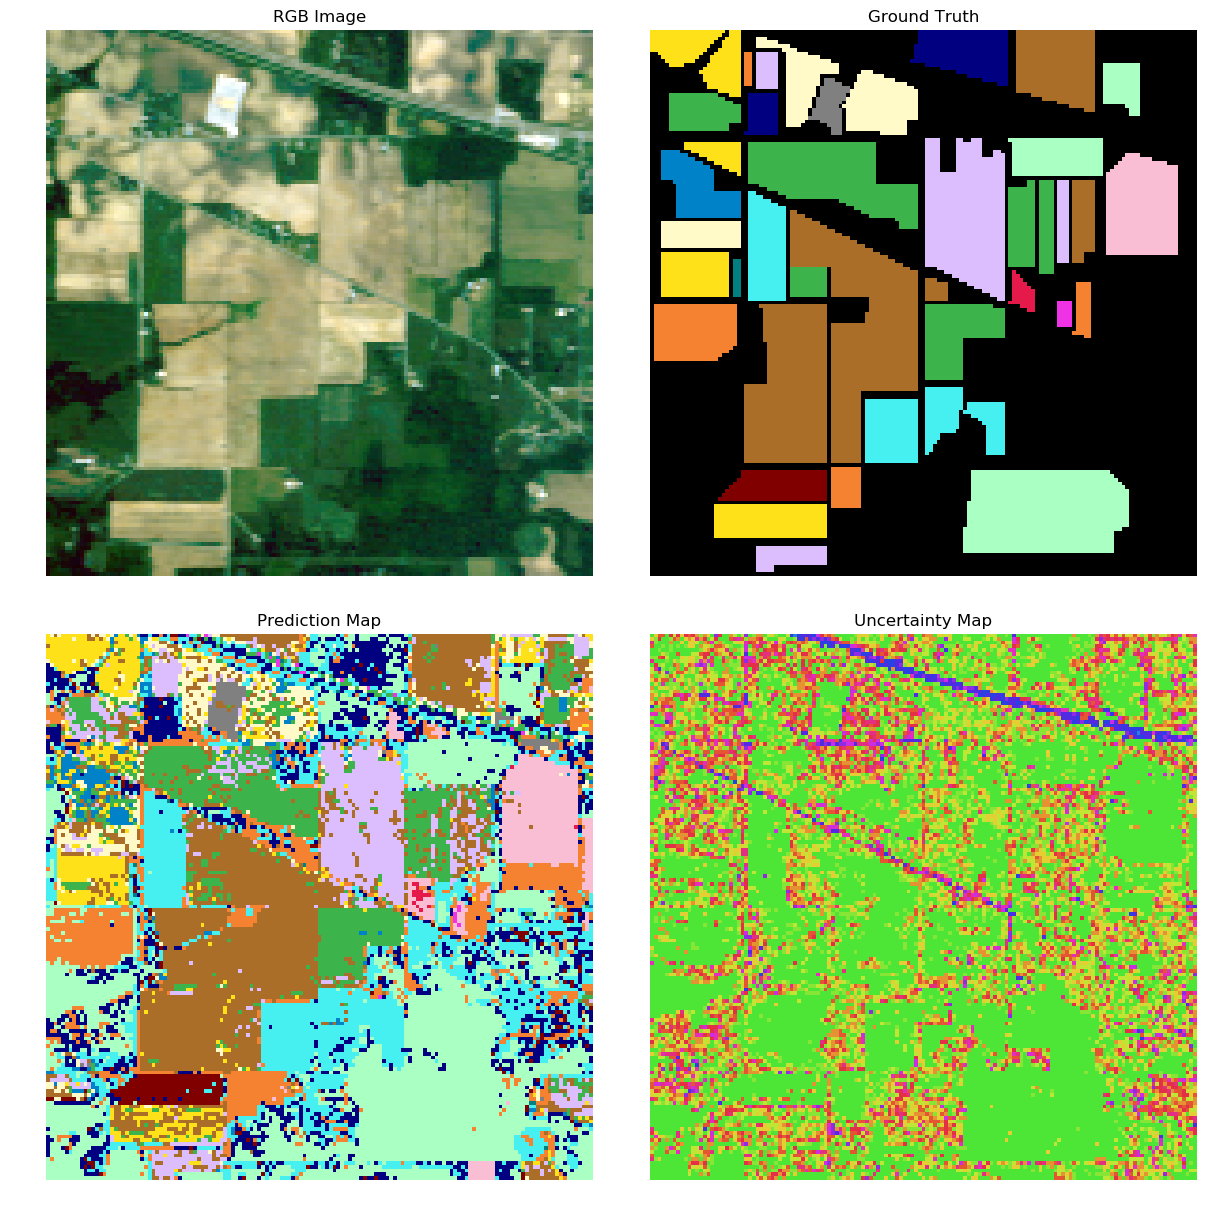
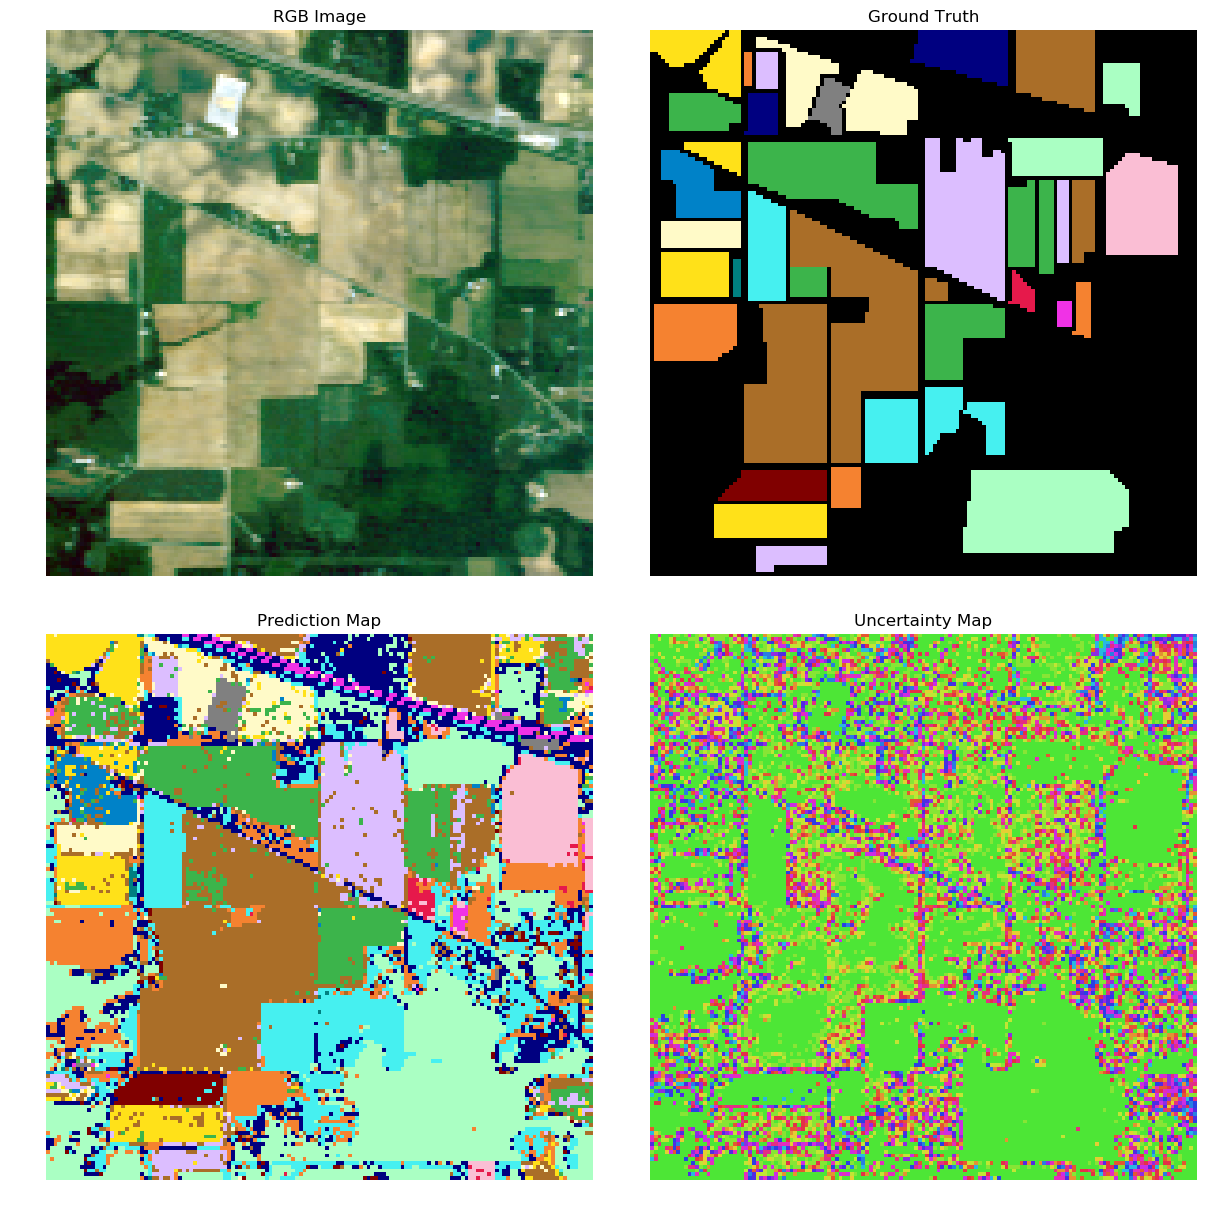
Mapas full con max_H=1.5 slots=15

Changed region(s): [[0.5203, 0.5181, 1.0, 0.9753], [0.0306, 0.5181, 0.4897, 0.9753]]

diff --git a/FPGA_accelerator_for_GBDT/high_performance_processor_python_code_and_data/generate_maps.py b/FPGA_accelerator_for_GBDT/high_performance_processor_python_code_and_data/generate_maps.py
@@ -137,7 +137,7 @@ MAP_GRADIENTS = [
 # ]
 
 def plot_maps(output_dir, name, shape, num_classes, wl, img, y, pred_map,
-              H_map, colours=MAP_COLOURS, gradients=MAP_GRADIENTS, max_H=0, slots=15):
+              H_map, colours=MAP_COLOURS, gradients=MAP_GRADIENTS, max_H=1.5, slots=15):
     """Generates and saves the `uncertainty map` plot of a dataset
     
     This plot shows an RGB representation of the hyperspectral image,
@@ -177,7 +177,7 @@ def plot_maps(output_dir, name, shape, num_classes, wl, img, y, pred_map,
     slots : int, optional (default: 15)
         Number of groups to divide uncertainty map values. If set to 0,
         `slots` will be set to `max_H * 10`.
-    max_H : float, optional (default: 0)
+    max_H : float, optional (default: 1.5)
         The max value of the range of uncertainty for the uncertainty
         map. The `0` value will use the logarithm of `num_classes` as
         it is the theoretical maximum value of the uncertainty.
@@ -266,7 +266,7 @@ def plot_maps(output_dir, name, shape, num_classes, wl, img, y, pred_map,
 # MAIN FUNCTION
 # =============================================================================
 
-def main(full_model=False):
+def main(full_model=True):
 
     if (full_model):
         maps_dir = "{}/full".format(MAPS_DIR)

diff --git a/FPGA_accelerator_for_GBDT/high_performance_processor_python_code_and_data/perform_analysis.py b/FPGA_accelerator_for_GBDT/high_performance_processor_python_code_and_data/perform_analysis.py
@@ -138,9 +138,9 @@ def accuracy_vs_uncertainty(predictions, y_test, H_limit=2.1, num_groups=21):
         Array with the bayesian predictions.
     y_test : ndarray
         Testing data set labels.
-    H_limit : float, optional (default: 2.5)
+    H_limit : float, optional (default: 2.1)
         The max value of the range of uncertainty.
-    num_groups : int, optional (default: 25)
+    num_groups : int, optional (default: 21)
         Number of groups in which the prediction will be divided
         according to their uncertainty.
     
@@ -346,9 +346,9 @@ def plot_accuracy_vs_uncertainty(output_dir, acc_data, px_data, w=7, h=4, colour
     colours : dict, optional (default: COLOURS)
         It contains the HEX value of the RGB colour of each dataset.
         The key must be the dataset name abbreviation.
-    H_limit : float, optional (default: 2.5)
+    H_limit : float, optional (default: 2.1)
         The max value of the range of uncertainty for the plot.
-    num_groups : int, optional (default: 25)
+    num_groups : int, optional (default: 21)
         Number of groups to divide xticks labels.
     """
     
